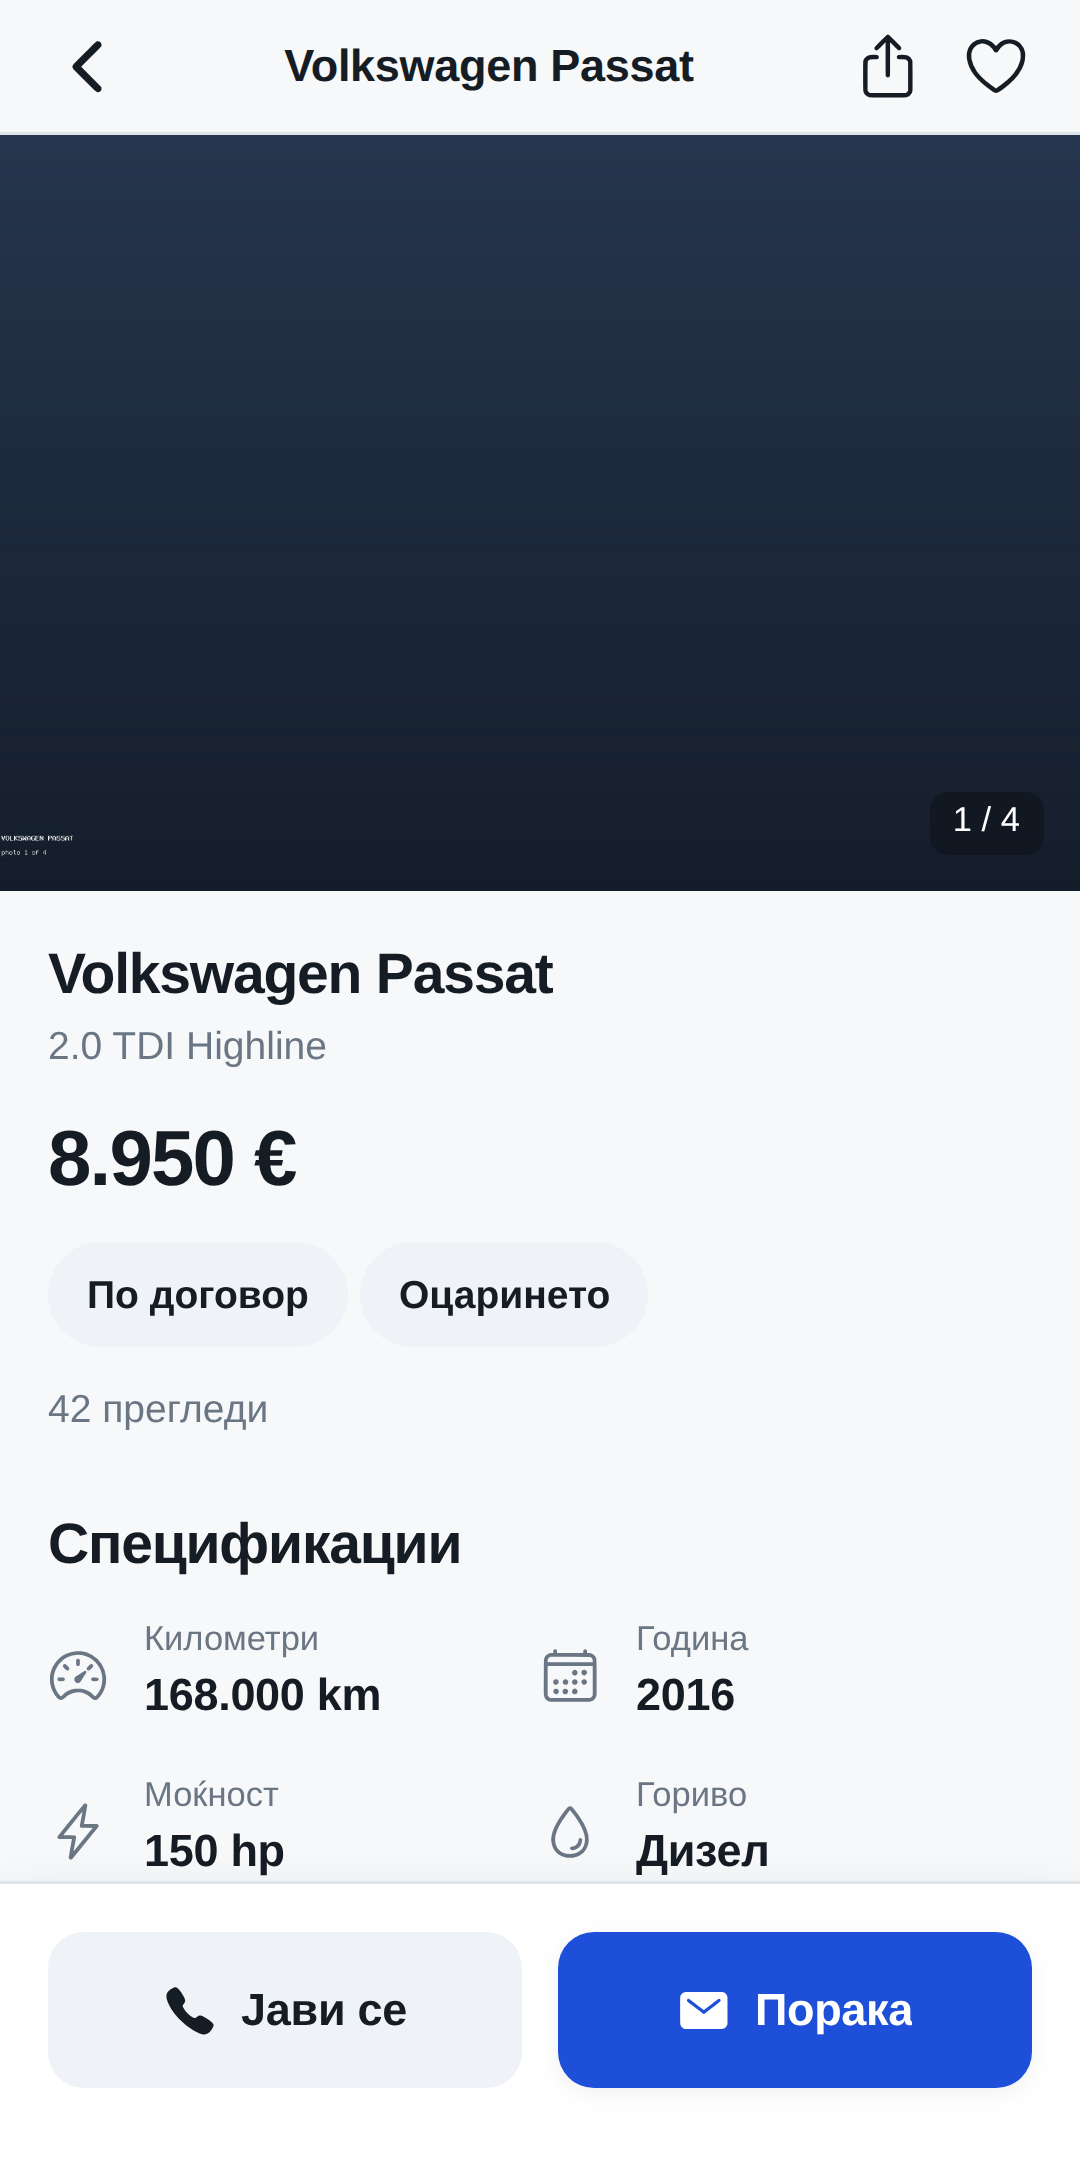
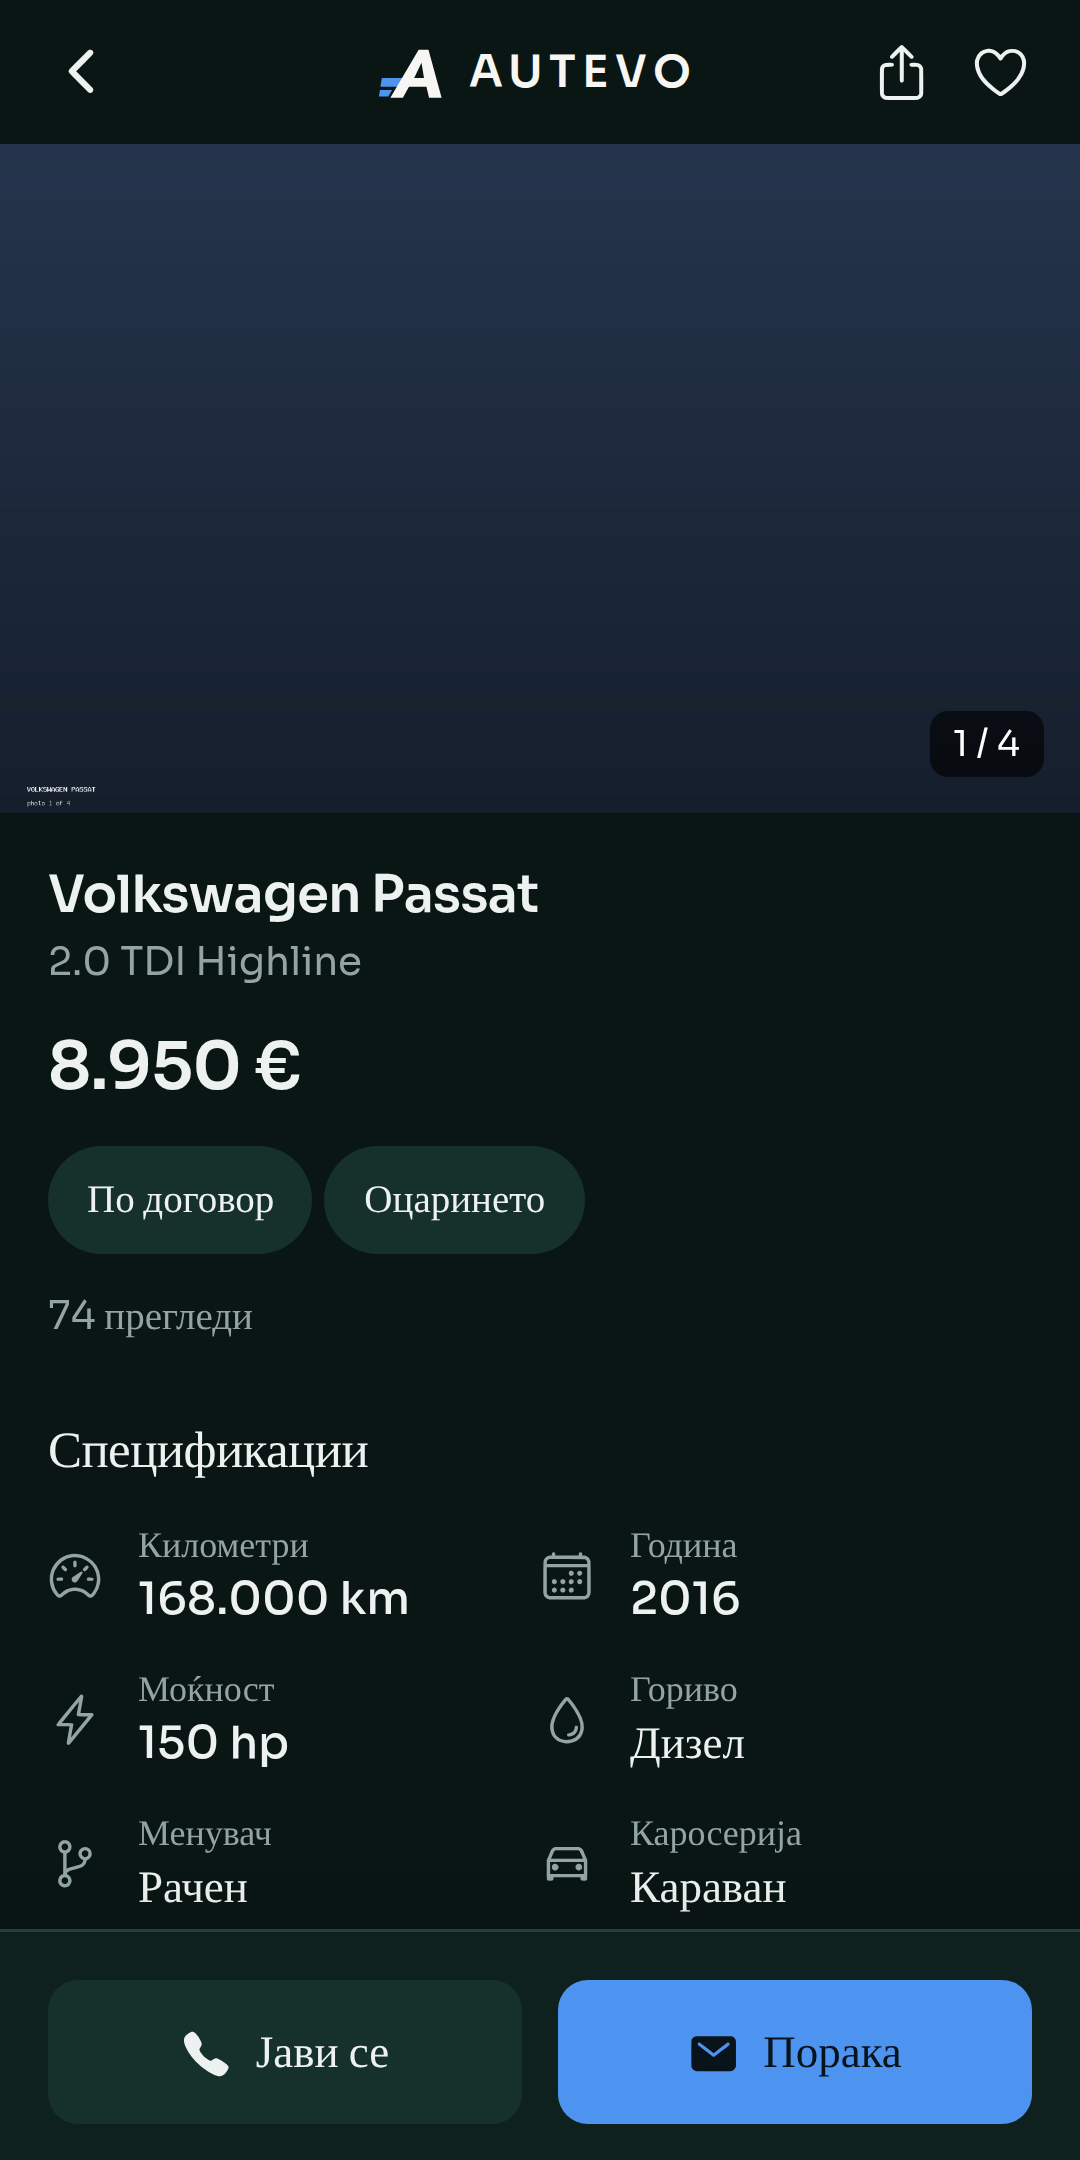
Swap in the designer's mark: a leaning A with motion wedges
The old placeholder — two mirrored chevrons woven into an A and a V — is
replaced by the mark that came back from the designer. The letter arrives
pre-skewed, so nothing transforms it, and the wedges thin out as it shrinks:
all three at 32 and above, two from 20, the letter alone below that, which is
what keeps it legible in a 20px header and as a flat silhouette in Android's
notification bar.

Wordmark keeps its own API — size, markOnly, reversed — so all five headers
took the new mark without changing, but it is now 1.2 wide for every 1 tall
and exports its paths, because three other things draw them. The icon
generator is one; the Play feature graphic is the other, and it was still
drawing a chevron of its own on a blue gradient that belonged to nothing.

The tile is petrol now rather than paper, so the store icon, the Android
background layer and adaptiveIcon.backgroundColor all follow it. The splash
stays on the app's own ground: the designer specified petrol there, but a
splash that does not match the first frame of the app flashes on launch, and
the two colours are a shade apart.

Store screenshots regenerated — they carry the header, so every one of them
showed the old mark.

Claude-Session: https://claude.ai/code/session_01XtpxuaVpkUbAgK2bxNKGme

diff --git a/app/scripts/make-brand-assets.js b/app/scripts/make-brand-assets.js
@@ -2,10 +2,14 @@
 /**
  * Draw the app's icons and splash mark from the Autevo identity.
  *
- * The mark is two mirrored chevrons woven into an A and a V: petrol in front,
- * azure behind. It needs no font to render, and the single-colour variants are
- * the same paths with one stroke dropped, which is what the brand asks for
- * below twenty pixels.
+ * The mark is a leaning A with three motion wedges running into it. The letter
+ * is drawn pre-skewed, so nothing here transforms it, and it needs no font to
+ * render. The single-colour variants are the letter alone, which is what the
+ * brand asks for wherever the platform flattens colour: Android's themed icon
+ * and its notification icon.
+ *
+ * The paths are the same ones `src/components/Wordmark.tsx` draws. Change one
+ * and change the other.
  *
  * Usage, from /app:  node scripts/make-brand-assets.js
  */
@@ -16,19 +20,30 @@ const { chromium } = require(process.env.PLAYWRIGHT_MODULE ?? 'playwright-core')
 const OUT = path.join(__dirname, '..', 'assets');
 
 const PETROL = '#0E2E2A';
-const AZURE = '#1E6FD9';
 const AZURE_LIGHT = '#4D94F0';
 const PAPER = '#F7F6F3';
 
+const WEDGES = [
+  'M10.0 36 H51.3 L43.1 50 H7.8 Z',
+  'M6.5 58 H53.4 L43.9 74 H4.0 Z',
+  'M3.1 80 H25.4 L18.3 92 H1.2 Z',
+];
+
+const LETTER =
+  'M74.05 6 L92.05 6 L116.11 94 L93.11 94 L88.28 74 ' +
+  'L56.28 74 L45.11 94 L22.11 94 Z ' +
+  'M79.25 30 L65.81 58 L83.81 58 Z';
+
 /**
- * @param up    the A, in front
- * @param down  the V, behind — null draws the single-colour mark
+ * @param letter  the A
+ * @param wedge   the three wedges — null draws the letter alone, for the
+ *                platforms that strip colour
  */
-function mark(up, down) {
+function mark(letter, wedge) {
   return `
-    <svg viewBox="0 0 100 100" xmlns="http://www.w3.org/2000/svg" width="100%" height="100%">
-      ${down ? `<path d="M14 36 L50 92 L86 36" fill="none" stroke="${down}" stroke-width="15" stroke-linejoin="miter"/>` : ''}
-      <path d="M14 64 L50 8 L86 64" fill="none" stroke="${up}" stroke-width="15" stroke-linejoin="miter"/>
+    <svg viewBox="-6 -8 132 110" xmlns="http://www.w3.org/2000/svg" width="100%" height="100%">
+      ${wedge ? `<g fill="${wedge}">${WEDGES.map((d) => `<path d="${d}"/>`).join('')}</g>` : ''}
+      <path d="${LETTER}" fill="${letter}" fill-rule="evenodd"/>
     </svg>`;
 }
 
@@ -36,56 +51,59 @@ function page(inner, size, background = 'transparent') {
   return `<html><body style="margin:0;width:${size}px;height:${size}px;background:${background};display:flex;align-items:center;justify-content:center;overflow:hidden">${inner}</body></html>`;
 }
 
-/** A square of the mark at a share of the canvas. */
+/** The mark at a share of the canvas, keeping its 1.2 : 1 ratio. */
 function centred(svg, size, share) {
-  const box = Math.round(size * share);
+  const width = Math.round(size * share);
 
-  return `<div style="width:${box}px;height:${box}px">${svg}</div>`;
+  return `<div style="width:${width}px;height:${Math.round(width / 1.2)}px">${svg}</div>`;
 }
 
 const FILES = [
   {
-    // The store icon: a light tile, petrol A in front, azure V behind. The
-    // rounded corners are Apple's job on iOS and the mask's on Android.
+    // The store icon: a petrol tile, paper letter, azure wedges. The rounded
+    // corners are Apple's job on iOS and the mask's on Android.
     name: 'icon.png',
     size: 1024,
-    background: PAPER,
-    inner: (size) => centred(mark(PETROL, AZURE), size, 0.66),
+    background: PETROL,
+    inner: (size) => centred(mark(PAPER, AZURE_LIGHT), size, 0.66),
   },
   {
+    // Android crops this to a circle or a squircle depending on the phone, so
+    // the mark keeps well inside the central two thirds.
     name: 'android-icon-foreground.png',
-    size: 1024,
-    inner: (size) => centred(mark(PETROL, AZURE), size, 0.44),
-  },
-  {
-    name: 'android-icon-background.png',
-    size: 1024,
-    background: PAPER,
-    inner: () => '',
-  },
-  {
-    // Themed icons are one flat shape, so the weave is dropped.
-    name: 'android-icon-monochrome.png',
-    size: 1024,
-    inner: (size) => centred(mark('#000000', null), size, 0.44),
-  },
-  {
-    // The splash sits on petrol, so the mark is reversed.
-    name: 'splash-icon.png',
     size: 1024,
     inner: (size) => centred(mark(PAPER, AZURE_LIGHT), size, 0.5),
   },
   {
-    // Android's status bar: a white silhouette, nothing else.
+    name: 'android-icon-background.png',
+    size: 1024,
+    background: PETROL,
+    inner: () => '',
+  },
+  {
+    // Themed icons are recoloured to one flat shape, so the wedges are dropped
+    // and the letter stands alone.
+    name: 'android-icon-monochrome.png',
+    size: 1024,
+    inner: (size) => centred(mark('#000000', null), size, 0.5),
+  },
+  {
+    // The splash sits on the app's own ground, so the mark is reversed.
+    name: 'splash-icon.png',
+    size: 1024,
+    inner: (size) => centred(mark(PAPER, AZURE_LIGHT), size, 0.55),
+  },
+  {
+    // Android's status bar keeps the silhouette and throws the colour away.
     name: 'notification-icon.png',
     size: 192,
-    inner: (size) => centred(mark('#FFFFFF', null), size, 0.62),
+    inner: (size) => centred(mark('#FFFFFF', null), size, 0.68),
   },
   {
     name: 'favicon.png',
     size: 96,
-    background: PAPER,
-    inner: (size) => centred(mark(PETROL, AZURE), size, 0.66),
+    background: PETROL,
+    inner: (size) => centred(mark(PAPER, AZURE_LIGHT), size, 0.7),
   },
 ];
 

diff --git a/app/src/components/Wordmark.tsx b/app/src/components/Wordmark.tsx
@@ -1,8 +1,8 @@
 import { Platform, StyleSheet, View } from 'react-native';
-import Svg, { Path } from 'react-native-svg';
+import Svg, { G, Path } from 'react-native-svg';
 
 import { useTheme } from '../theme';
-import { azure, paper, petrol } from '../theme/palette';
+import { azure, azureOnDark, paper, petrol } from '../theme/palette';
 import { Text } from './Text';
 
 export type WordmarkProps = {
@@ -14,28 +14,67 @@ export type WordmarkProps = {
   reversed?: boolean;
 };
 
+/** The mark's box. The letter is drawn pre-skewed, so nothing transforms it. */
+export const MARK_VIEW_BOX = '-6 -8 132 110';
+
+/** Width is height times this. The mark is wider than it is tall. */
+export const MARK_ASPECT = 1.2;
+
 /**
- * The Autevo mark: two mirrored chevrons woven into an A and a V, because a
- * marketplace is two sides facing each other.
+ * Three motion wedges, longest at the top, reading left into the letter. Their
+ * uneven lengths come from the letterform, so they are never evened up and a
+ * fourth is never added.
+ */
+export const MARK_WEDGES = [
+  'M10.0 36 H51.3 L43.1 50 H7.8 Z',
+  'M6.5 58 H53.4 L43.9 74 H4.0 Z',
+  'M3.1 80 H25.4 L18.3 92 H1.2 Z',
+] as const;
+
+/** The leaning A, already carrying its nine degrees. Needs `evenodd` to hollow the counter. */
+export const MARK_LETTER =
+  'M74.05 6 L92.05 6 L116.11 94 L93.11 94 L88.28 74 ' +
+  'L56.28 74 L45.11 94 L22.11 94 Z ' +
+  'M79.25 30 L65.81 58 L83.81 58 Z';
+
+/**
+ * How much of the mark survives at a given height.
  *
- * Below twenty pixels the weave muddies, so the azure stroke is dropped and the
- * mark is drawn in one colour.
+ * The wedges are the first thing to muddy as the mark shrinks, so they are
+ * dropped in order rather than all at once: three above thirty-two, two from
+ * twenty, and below that the letter stands alone.
+ */
+export function wedgesFor(size: number): readonly string[] {
+  if (size >= 32) {
+    return MARK_WEDGES;
+  }
+
+  return size >= 20 ? MARK_WEDGES.slice(1) : [];
+}
+
+/**
+ * The Autevo mark: a leaning A with three motion wedges running into it.
+ *
+ * The word beside it is real text rather than an outline, so it stays sharp at
+ * every density and follows the same face as the rest of the app.
  */
 export function Wordmark({ size = 24, markOnly = false, reversed = false }: WordmarkProps) {
   const theme = useTheme();
-  const small = size < 20;
 
   const onDark = reversed || theme.isDark;
-  const up = onDark ? paper : petrol[800];
-  const down = onDark ? '#4D94F0' : azure[600];
+  const letter = onDark ? paper : petrol[800];
+  const wedge = onDark ? azureOnDark : azure[600];
 
   return (
-    <View style={[styles.lockup, { gap: size * 0.4 }]}>
-      <Svg width={size} height={size} viewBox="0 0 100 100">
-        {!small ? (
-          <Path d="M14 36 L50 92 L86 36" fill="none" stroke={down} strokeWidth={15} />
-        ) : null}
-        <Path d="M14 64 L50 8 L86 64" fill="none" stroke={up} strokeWidth={15} />
+    <View style={[styles.lockup, { gap: size * 0.35 }]}>
+      <Svg width={size * MARK_ASPECT} height={size} viewBox={MARK_VIEW_BOX}>
+        <G fill={wedge}>
+          {wedgesFor(size).map((d) => (
+            <Path key={d} d={d} />
+          ))}
+        </G>
+
+        <Path d={MARK_LETTER} fill={letter} fillRule="evenodd" />
       </Svg>
 
       {markOnly ? null : (
@@ -43,12 +82,12 @@ export function Wordmark({ size = 24, markOnly = false, reversed = false }: Word
           style={[
             theme.typography.wordmark,
             {
-              fontSize: size * 0.72,
-              lineHeight: size * 0.88,
-              color: onDark ? paper : theme.colors.text,
+              fontSize: size * 0.73,
+              lineHeight: size * 0.9,
+              color: letter,
               // The tracking is part of the logotype, not a style choice.
-              letterSpacing: size * 0.12,
-              ...Platform.select({ web: { paddingRight: size * 0.12 }, default: {} }),
+              letterSpacing: size * 0.11,
+              ...Platform.select({ web: { paddingRight: size * 0.11 }, default: {} }),
             },
           ]}
         >

diff --git a/app/scripts/store-screenshots.js b/app/scripts/store-screenshots.js
@@ -99,17 +99,29 @@ async function capture(browser, device, language) {
 async function featureGraphic(browser) {
   const page = await browser.newPage({ viewport: { width: 1024, height: 500 }, deviceScaleFactor: 1 });
 
+  // The same paths the app and the icon generator draw, on the brand's own
+  // petrol rather than a gradient that belongs to nothing.
+  const WEDGES = [
+    'M10.0 36 H51.3 L43.1 50 H7.8 Z',
+    'M6.5 58 H53.4 L43.9 74 H4.0 Z',
+    'M3.1 80 H25.4 L18.3 92 H1.2 Z',
+  ];
+  const LETTER =
+    'M74.05 6 L92.05 6 L116.11 94 L93.11 94 L88.28 74 ' +
+    'L56.28 74 L45.11 94 L22.11 94 Z ' +
+    'M79.25 30 L65.81 58 L83.81 58 Z';
+
   await page.setContent(`
-    <html><body style="margin:0;width:1024px;height:500px;background:linear-gradient(140deg,#1E4FD8 0%,#152B66 100%);
-      display:flex;align-items:center;justify-content:center;gap:28px;
+    <html><body style="margin:0;width:1024px;height:500px;background:#0E2E2A;
+      display:flex;align-items:center;justify-content:center;gap:34px;
       font-family:-apple-system,BlinkMacSystemFont,'Segoe UI',Roboto,Arial,sans-serif">
-      <svg width="132" height="132" viewBox="0 0 1024 1024" fill="none">
-        <path d="M318 360 L512 700 L706 360" stroke="#FFFFFF" stroke-width="132"
-              stroke-linecap="round" stroke-linejoin="round"/>
+      <svg width="158" height="132" viewBox="-6 -8 132 110">
+        <g fill="#4D94F0">${WEDGES.map((d) => `<path d="${d}"/>`).join('')}</g>
+        <path d="${LETTER}" fill="#F7F6F3" fill-rule="evenodd"/>
       </svg>
       <div>
-        <div style="color:#fff;font-size:84px;font-weight:700;letter-spacing:-3px">Autevo</div>
-        <div style="color:#D6E3FF;font-size:30px;margin-top:6px">Половни автомобили · Used cars</div>
+        <div style="color:#F7F6F3;font-size:84px;font-weight:700;letter-spacing:-3px">Autevo</div>
+        <div style="color:#93A5A2;font-size:30px;margin-top:6px">Половни автомобили · Used cars</div>
       </div>
     </body></html>`);
 

diff --git a/app/src/theme/colors.ts b/app/src/theme/colors.ts
@@ -1,4 +1,4 @@
-import { amber, azure, green, neutral, paper, petrol, red } from './palette';
+import { amber, azure, azureOnDark, green, neutral, paper, petrol, red } from './palette';
 
 /**
  * Every colour a screen is allowed to use, named by what it is for rather than
@@ -105,7 +105,7 @@ export const darkColors: ThemeColors = {
   // On a light azure, a near-black petrol is what stays readable.
   textOnAccent: '#08131B',
 
-  accent: '#4D94F0',
+  accent: azureOnDark,
   accentPressed: azure[400],
   accentMuted: 'rgba(77, 148, 240, 0.16)',
   accentBorder: 'rgba(77, 148, 240, 0.36)',

diff --git a/app/src/theme/palette.ts b/app/src/theme/palette.ts
@@ -20,6 +20,13 @@ export const azure = {
   700: '#1A5FBA',
 } as const;
 
+/**
+ * Azure as it reads on a dark ground: the accent on every screen, and the
+ * mark's wedges there too. Lighter than azure 600, which is the pairing for a
+ * light surface.
+ */
+export const azureOnDark = '#4D94F0';
+
 /** The light tile the mark sits on, in the icon and on the splash. */
 export const paper = '#F7F6F3';
 

diff --git a/CLAUDE.md b/CLAUDE.md
@@ -303,8 +303,12 @@ release, and update it whenever a placeholder is added or replaced.
   small thumbnail on the left rather than a full-width photo. The banner carries a deep
   brand blue in both schemes, because a full-width block of the light accent is glaring
   against a near-black page.
-- **The identity is Autevo: petrol and azure, Sora, dark only.** The mark is two
-  mirrored chevrons woven into an A and a V. Petrol `#0E2E2A` carries every surface;
+- **The identity is Autevo: petrol and azure, Sora, dark only.** The mark is a leaning
+  A with three azure motion wedges running into it, drawn by a designer and handed over
+  as flattened paths — the letter already carries its nine degrees, so nothing
+  transforms it. The wedges thin out as it shrinks: all three at 32 and above, two from
+  20, the letter alone below that. `Wordmark.tsx` exports the paths, and the icon
+  generator and the Play feature graphic draw the same ones. Petrol `#0E2E2A` carries every surface;
   azure `#1E6FD9` is the only action colour, so anything azure has to be tappable.
   Cards are flat with a one-pixel border — there are exactly two elevations, flat and
   the sheet shadow. Radii are 6 for chips and inputs, 10 for buttons, 16 for cards.
@@ -363,9 +367,12 @@ release, and update it whenever a placeholder is added or replaced.
   `app/scripts/store-screenshots.js`, at both store sizes and in both languages. They are never
   mock-ups, so a screenshot that looks wrong is a bug: the first run of it caught euro prices
   still carrying a denar line in the results list.
-- **The icon set is generated** by `app/scripts/make-brand-assets.js`: one chevron mark drawn as
-  SVG, rendered to the icon, the Android adaptive and monochrome layers, the splash and the
-  notification silhouette. No font has to be installed for it to build.
+- **The icon set is generated** by `app/scripts/make-brand-assets.js`: the mark drawn as SVG,
+  rendered to the icon, the Android adaptive and monochrome layers, the splash and the
+  notification silhouette. No font has to be installed for it to build. The tile is petrol,
+  not paper, so the Android background layer and `adaptiveIcon.backgroundColor` follow it.
+  Where a platform strips colour — Android's themed icon, its notification icon — the wedges
+  are dropped and the letter stands alone.
 - **Blocking hides, it never deletes.** `user_blocks` is one row per direction, and everything
   asks `BlockService::eitherWay()`: search, the listing policy, the conversation policy, the
   conversations list, saved cars and the saved-search job. Unblocking gives all of it back,
